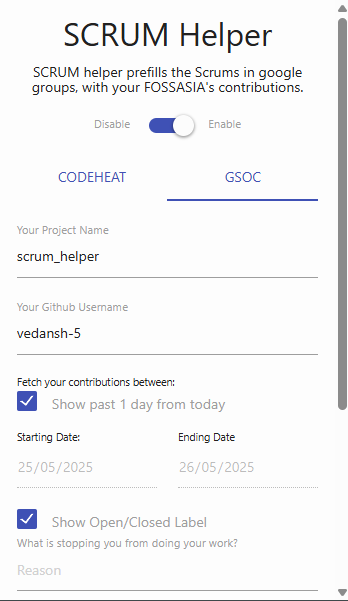
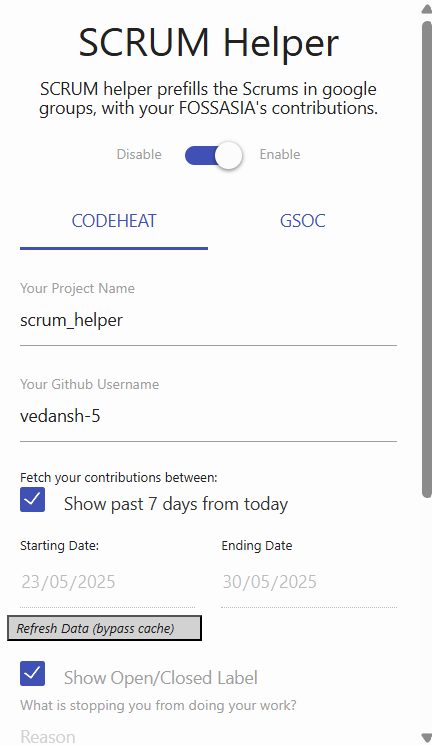
Added refresh button in UI, turned logging off using DEBUG = false, working caching feature

diff --git a/src/scripts/scrumHelper.js b/src/scripts/scrumHelper.js
@@ -142,7 +142,7 @@ function allIncluded() {
 		return WeekDisplayPadded;
 	}
 
-	const DEBUG = true; 
+	const DEBUG = false; 
 	function log( ...args) {
 		if(DEBUG) {
 			console.log(`[SCRUM-HELPER]:`, ...args);
@@ -165,13 +165,8 @@ function allIncluded() {
 		errorTTL: 60*1000, // 1 min error cache 
 		subject: null,
 	};
-	const MAX_CACHE_SIZE = 50 * 1024 * 1024; //50mb max cache
-
+	
 	function saveToStorage(data, subject = null) {
-		if(data === githubCache.data && subject === githubCache.subject) {
-			log('Skipping cache save - no changes');
-			return Promise.resolve(true);
-		}
 		const cacheData = {
 			data: data,
 			cacheKey: githubCache.cacheKey,
@@ -191,6 +186,8 @@ function allIncluded() {
 					resolve(false);
 				} else {
 					log('Cache saved successfuly');
+					githubCache.data = data;
+                	githubCache.subject = subject;
 					resolve(true);
 				}
 			});
@@ -201,19 +198,19 @@ function allIncluded() {
 		log('Loading cache from storage');
 		return new Promise((resolve) => {
 			chrome.storage.local.get('githubCache', (result) => {
-				if(chrome.runtime.lastError) {
-					logError('Storage load failed:', chrome.runtime.lastError); 
-					resolve(false);
-					return;
-				}
-
 				const cache = result.githubCache;
 				if (!cache) {
 					log('No cache found in storage');
 					resolve(false);
 					return;
 				}
-				log('Found cache:', {
+				const isCacheExpired = (Date.now() - cache.timestamp) > githubCache.ttl;
+				if(isCacheExpired){
+					log('Cached data is expired');
+					resolve(false);
+					return;
+				}
+				log('Found valid cache:', {
 					cacheKey: cache.cacheKey,
 					age: `${((Date.now() - cache.timestamp) / 1000 / 60).toFixed(1)} minutes` ,
 				});
@@ -223,28 +220,15 @@ function allIncluded() {
 				githubCache.timestamp = cache.timestamp;
 				githubCache.subject = cache.subject;
 
-				// use cached subject element
 				if(cache.subject && scrumSubject) {
 					scrumSubject.value = cache.subject;
 					scrumSubject.dispatchEvent(new Event('input', { bubbles: true }));
 				}
-
 				resolve(true);
 			})
 		})
 	}
-	
-	function updateCache(data) {
-		const cacheSize = new Blob([JSON.stringify(data)]).size;
-		if(cacheSize > MAX_CACHE_SIZE) {
-			console.wanr(`Cache data too large, not caching`);
-			return;
-		}
-		githubCache.data = data;
-		githubCache.timestamp = Date.now();
-	}
-	
-	// fetch github data
+
 	async function fetchGithubData() {
 		const cacheKey = `${githubUsername}-${startingDate}-${endingDate}`;
 		
@@ -322,8 +306,7 @@ function allIncluded() {
 			githubCache.data = { githubIssuesData, githubPrsReviewData, githubUserData };
 			githubCache.timestamp = Date.now();
 			
-			// updateCache({ githubIssuesData, githubPrsReviewData, githubUserData });
-			await saveToStorage(githubCache.data); // Save to storage
+			await saveToStorage(githubCache.data);
 			processGithubData(githubCache.data);
 
 			// Resolve queued calls
@@ -361,6 +344,38 @@ function allIncluded() {
 		});
 	}
 	verifyCacheStatus();
+
+	async function forceGithubDataRefresh() {
+		log('Force refreshing GitHub data');
+		// clear cache
+		githubCache = {
+			data: null,
+			cacheKey: null,
+			timestamp: 0,
+			ttl: 10*60*1000,
+			fetching: false,
+			queue: [],
+			errors: {},
+			errorTTL: 60*1000,
+			subject: null
+    	};
+		await new Promise(resolve => {
+        	chrome.storage.local.remove('githubCache', resolve);
+		});
+
+		log('Cache cleared, fetching fresh data');
+		try {
+			await fetchGithubData();
+			await saveToStorage();
+			return { success: true, timestamp: Date.now() };
+		} catch (err) {
+			logError('Force refresh failed:', err);
+			throw err;
+		}
+	}
+	if(typeof window !== 'undefined') {
+		window.forceGithubDataRefresh = forceGithubDataRefresh;
+	}
 
 	function processGithubData(data) {
 		log('Processing Github data');
@@ -433,24 +448,11 @@ function allIncluded() {
 		});
 	}
 
-	// depriciate this
-	// function getProject() {
-	// 	if (projectName != '') return projectName;
-
-	// 	let project = '<project name>';
-	// 	let url = window.location.href;
-	// 	let projectUrl = url.substr(url.lastIndexOf('/') + 1);
-	// 	if (projectUrl === 'susiai') project = 'SUSI.AI';
-	// 	else if (projectUrl === 'open-event') project = 'Open Event';
-	// 	return project;
-	// }
-
 	//load initial scrum subject
 	function scrumSubjectLoaded() {
 		if (!enableToggle) return;
 		setTimeout(() => {
 			let name = githubUserData.name || githubUsername;
-			// let project = getProject();
 			let project = projectName || '<project name>';
 			let curDate = new Date();
 			let year = curDate.getFullYear().toString();
@@ -463,7 +465,6 @@ function allIncluded() {
 
 			const subject = `[Scrum] ${name} - ${project} - ${dateCode} - False`;
         	log('Generated subject:', subject);
-			// Save subject to cache
 			githubCache.subject = subject;
 			saveToStorage(githubCache.data, subject);
 
@@ -737,3 +738,13 @@ $('button>span:contains(New conversation)')
 	.click(() => {
 		allIncluded();
 	});
+
+chrome.runtime.onMessage.addListener((request, sender, sendResponse) => {
+	if(request.action === 'forceRefresh') {
+		forceGithubDataRefresh().then(result => sendResponse(result)).catch(err => {
+			console.error('Force refresh failed:', err);
+			sendResponse({ success: false, error: err.message });
+		});
+		return true;
+	}
+})

diff --git a/src/scripts/main.js b/src/scripts/main.js
@@ -78,6 +78,36 @@ function handleBodyOnLoad() {
 		},
 	);
 }
+
+document.getElementById('refreshCache').addEventListener('click', async (e) => {
+    const button = e.currentTarget;
+    button.classList.add('loading');
+    button.disabled = true;
+    
+    try {
+        const tabs = await chrome.tabs.query({active: true, currentWindow: true});
+        const response = await chrome.tabs.sendMessage(tabs[0].id, {
+            action: 'forceRefresh',
+            timestamp: Date.now() // Pass timestamp to ensure cache invalidation
+        });
+        
+        if (response.success) {
+            M.toast({html: 'Data refreshed successfully!', classes: 'green'});
+        } else {
+            throw new Error(response.error || 'Refresh failed');
+        }
+    } catch (err) {
+        console.error('Refresh failed:', err);
+        M.toast({html: 'Failed to refresh data', classes: 'red'});
+    } finally {
+        // Reset button state after a slight delay
+        setTimeout(() => {
+            button.classList.remove('loading');
+            button.disabled = false;
+        }, 500);
+    }
+});
+
 function handleEnableChange() {
 	let value = enableToggleElement.checked;
 	chrome.storage.local.set({ enableToggle: value });

diff --git a/src/index.css b/src/index.css
@@ -64,3 +64,34 @@ li {
 	transition: color 0.3s ease-in-out, font-weight 0.3s ease-in-out;
 }
 
+.refresh-btn {
+    transition: all 0.3s ease;
+    position: relative;
+    overflow: hidden;
+    background-color: #d2d2d2;
+}
+
+.refresh-btn:hover {
+    background-color: #999bac;
+    transform: translateY(-1px);
+    box-shadow: 0 2px 5px rgba(0,0,0,0.2);
+}
+
+.refresh-btn:active {
+    transform: translateY(1px);
+    box-shadow: none;
+}
+
+.refresh-btn.loading {
+    pointer-events: none;
+    opacity: 0.8;
+}
+
+.refresh-btn.loading .fa-refresh {
+    animation: spin 1s linear infinite;
+}
+
+@keyframes spin {
+    100% { transform: rotate(360deg); }
+}
+

diff --git a/src/popup.html b/src/popup.html
@@ -64,6 +64,9 @@
 				<div>Ending Date</div>
 				<input id="endingDate" type="date" class="datepicker" placeholder=" ">
 			</div>
+			<button id="refreshCache" class="btn-small waves-effect waves-light refresh-btn" title="Force refresh Github data">
+				<i class="material-icons left">Refresh Data (bypass cache)</i>
+			</button>
 			<div class="col s12">
 				<br />
 				<input type="checkbox" class="filled-in" id="showOpenLabel"/>

diff --git a/README.md b/README.md
@@ -32,6 +32,11 @@
 - Ensure the Scrum Helper settings are applied (follow step 6 above)
 -  The extension will prefill scrum content for you to edit
 
+## New Features
+- The extension now uses parallel modern API requests along with data caching with a TTL(Time to Live) of 10 minutes.
+- New fetch requests will be made if input data by user is changed.
+- The cache data can be manually refreshed using the `Refresh Data` button.
+
 ## Setting up the code locally
 
 ```
@@ -42,7 +47,7 @@ $ npm install
 ## Screenshots
 ![SCRUM](/docs/images/scrum.png)
 
-![POPUP](/docs/images/popup.png)
+![POPUP](docs/images/popup.png)
 
 ## About contributing
 - Follow the Issues and PRs templates as far as possible.
